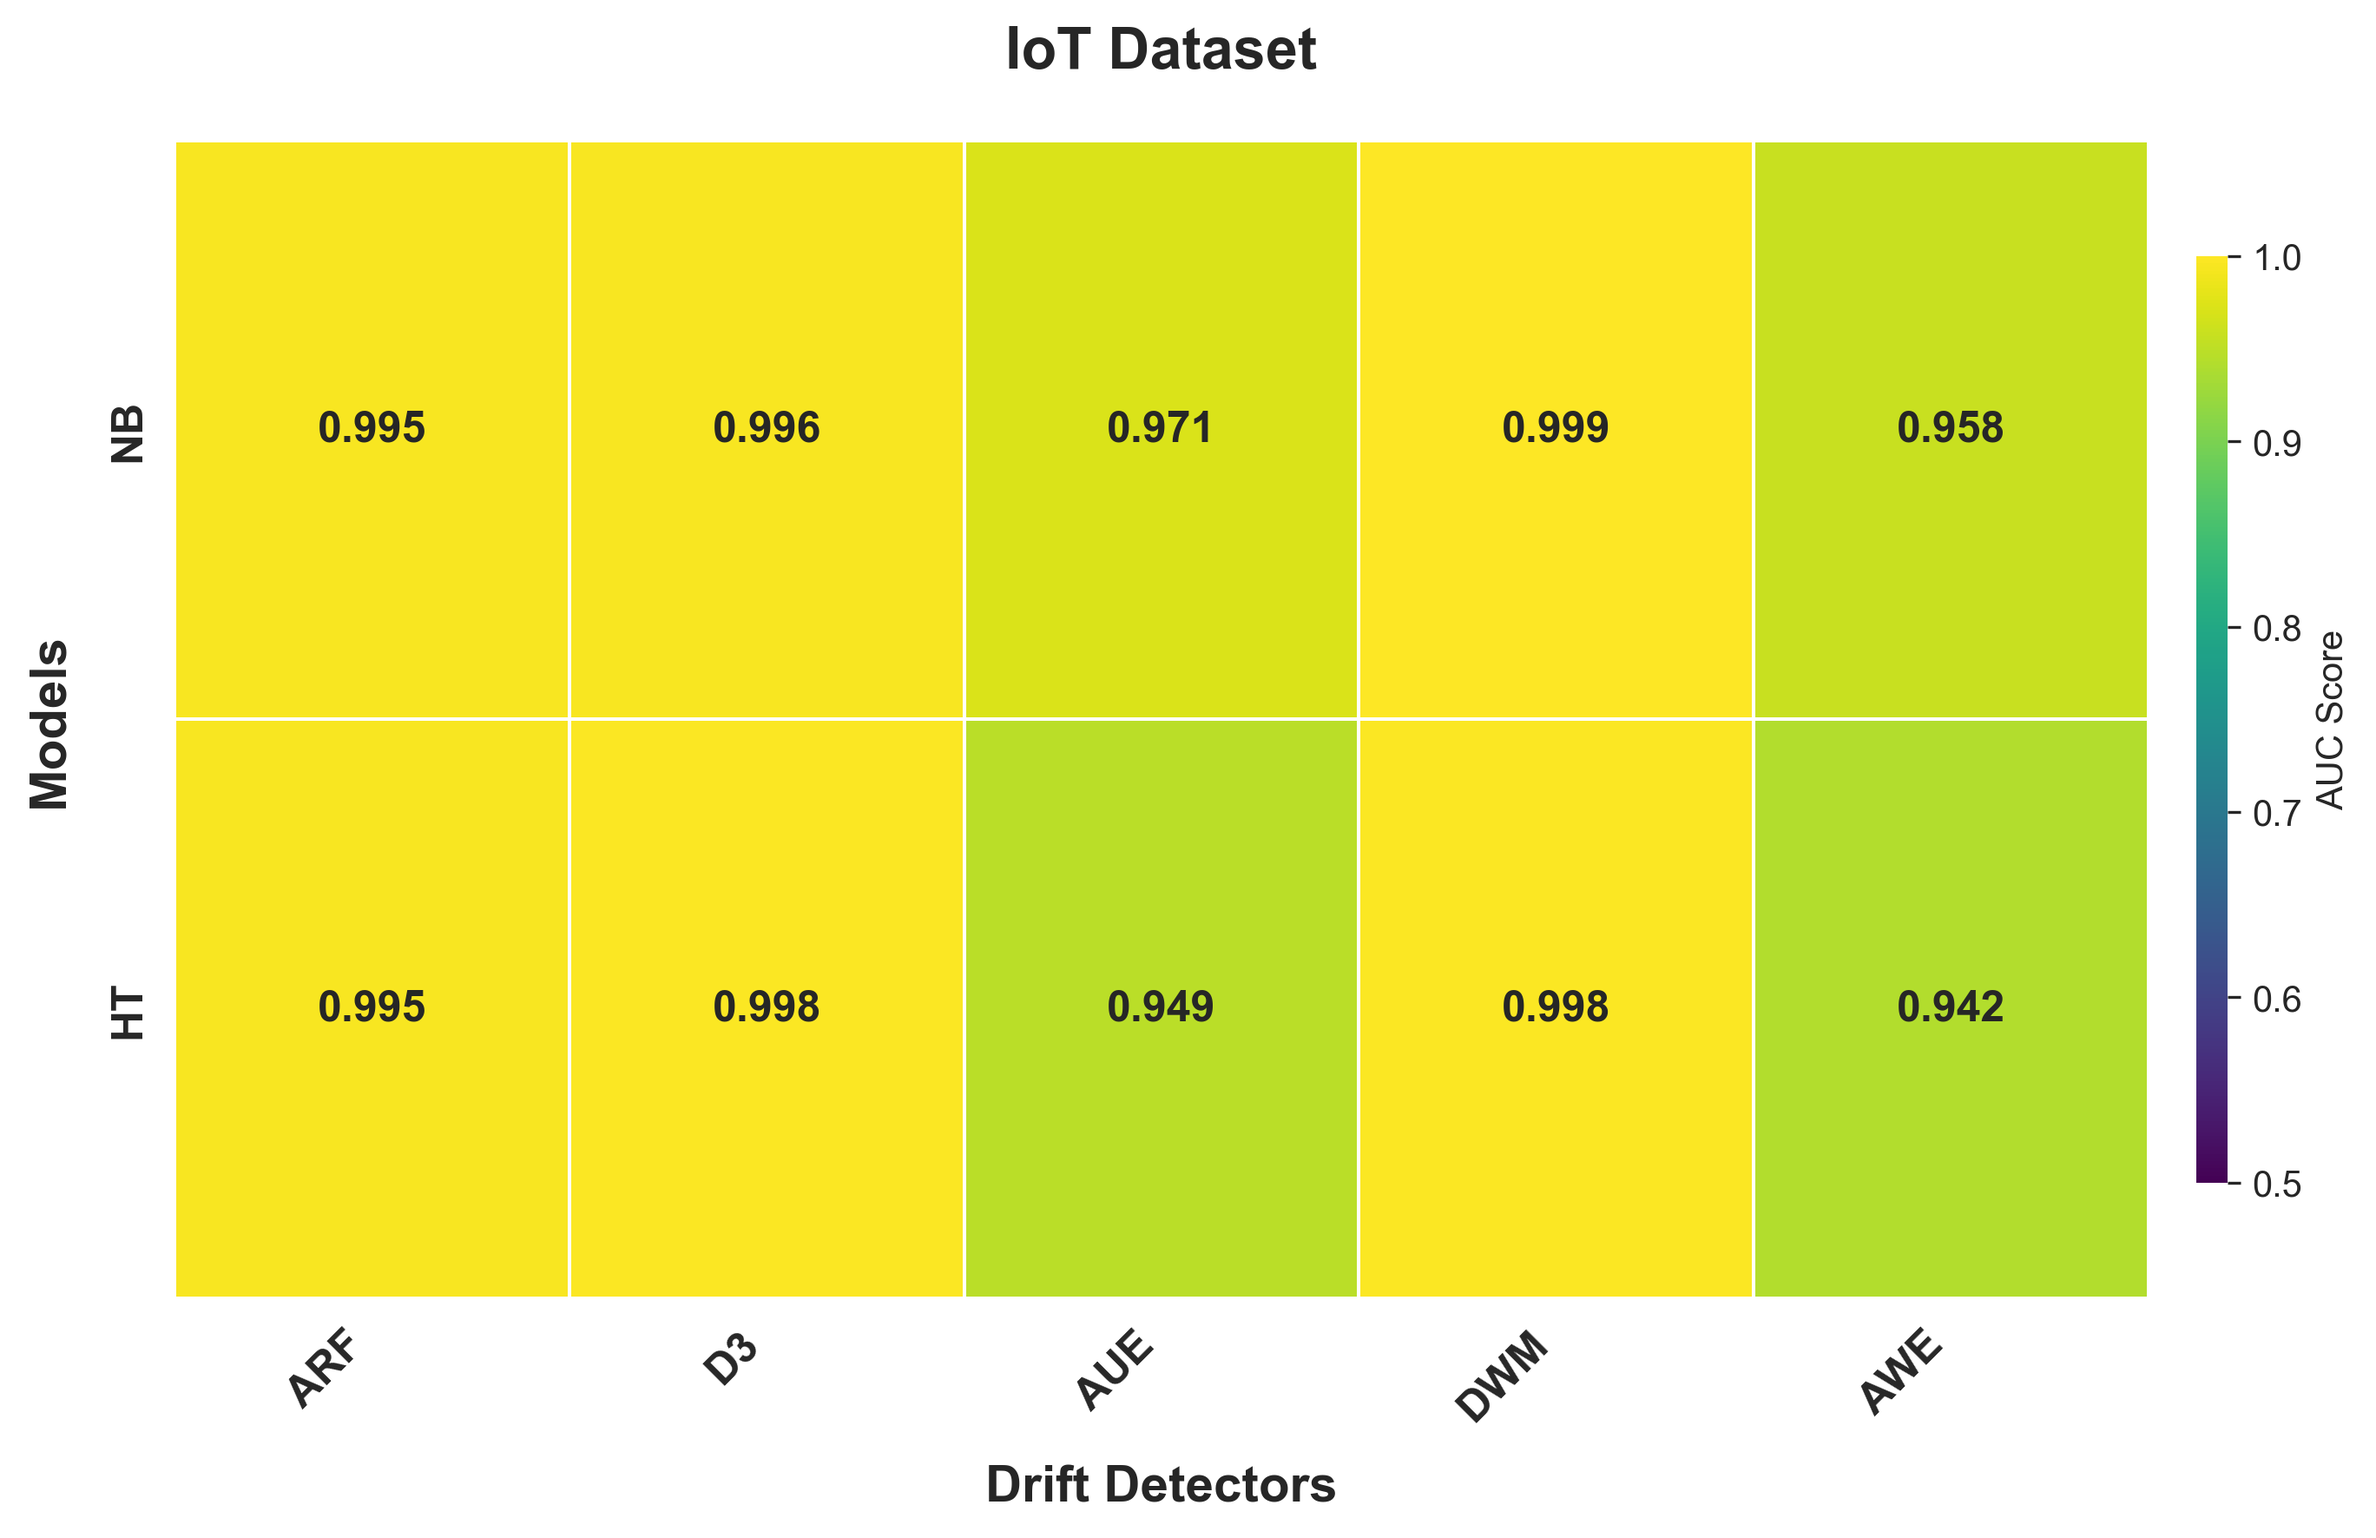
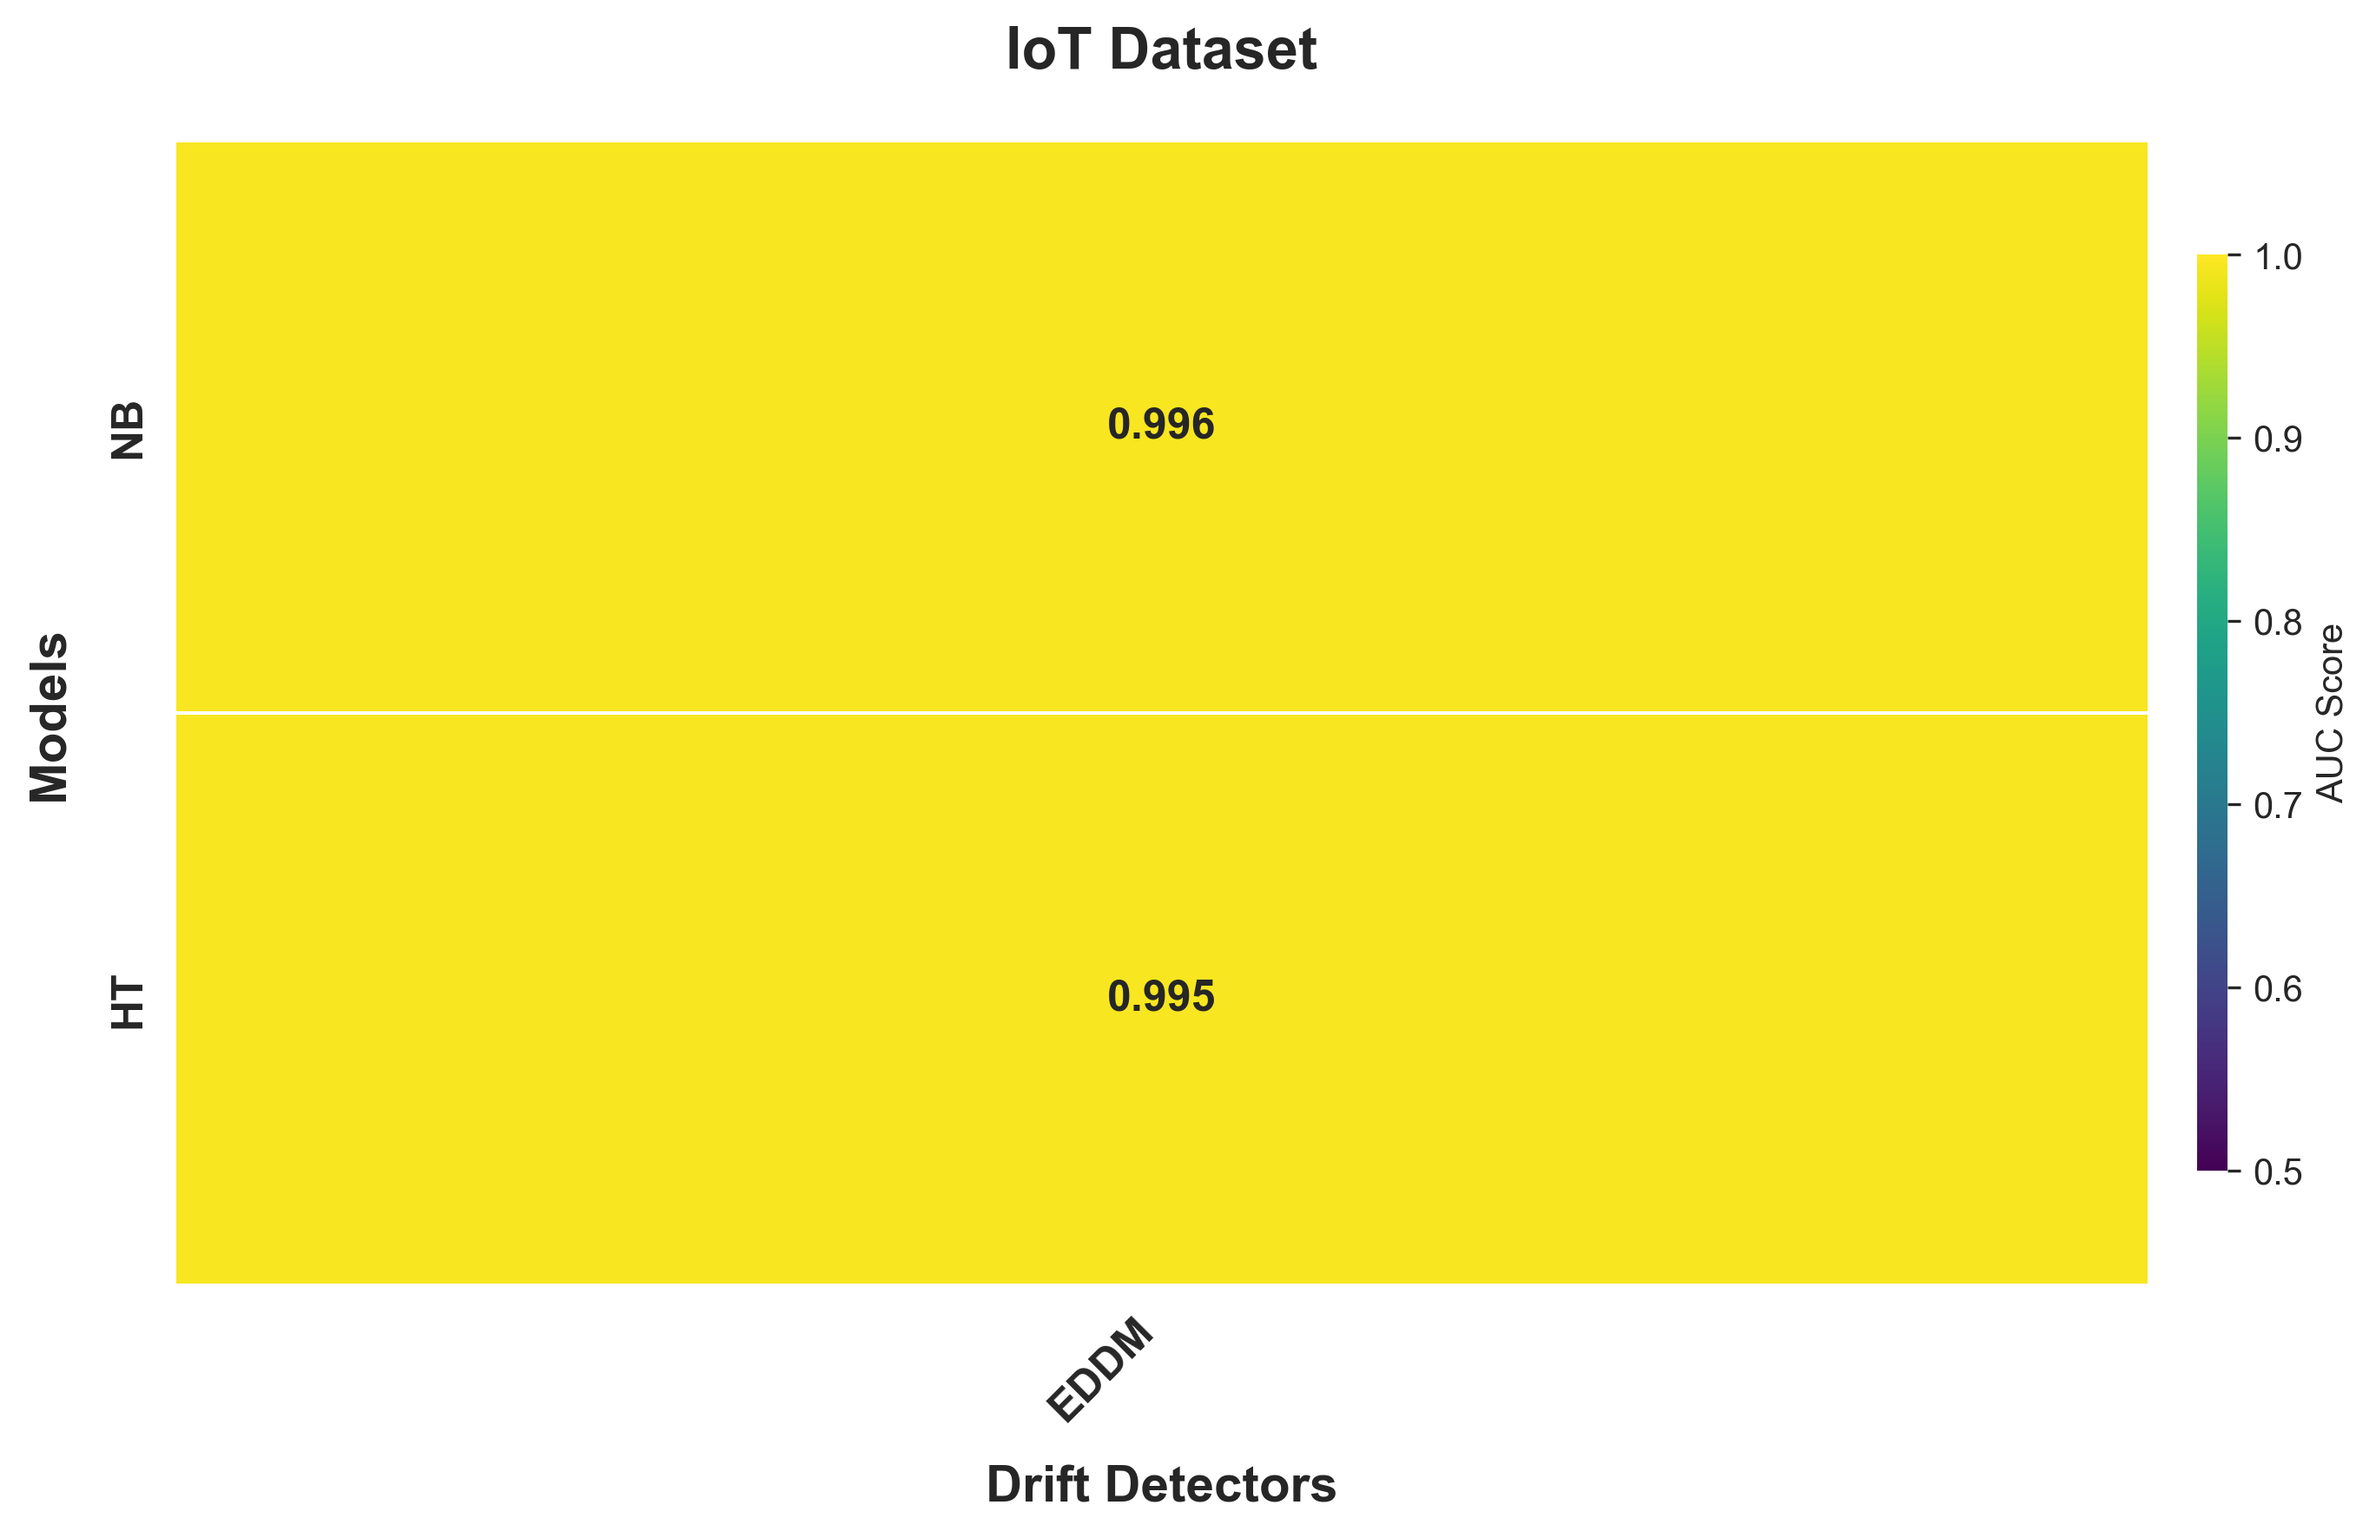
updated

diff --git a/main.py b/main.py
@@ -60,7 +60,7 @@ drift_detectors = {
     # 'RDDM': RDDMDriftDetector(), # 2017               # warning_threshold=1.773, drift_threshold=2.258
     # 'FHDDM': FHDDMDriftDetector(), # 2016 == River
     # 'EWMA': EWMADriftDetector(), # 2012               # lambda_ = 0.2, min_instances = 30
-    # 'EDDM': EDDMDriftDetector(), # 2006 == River
+    'EDDM': EDDMDriftDetector(), # 2006 == River
     # Window-Based Drift Detectors
     # 'KSWIN': KSWINDriftDetector(), #2020 == River
     # 'FPDD': FPDDDriftDetector(), # 2018                 # window_size = 30, alpha = 0.05
@@ -68,11 +68,11 @@ drift_detectors = {
     # 'MDDM': MDDMDriftDetector(), #2018                  # window_size=50, confidence_level=0.05
     # 'ADWIN': ADWINDriftDetector(), # 2007 == River
     # Ensemble-Based Drift Detectors
-    'ARF': ARFDriftDetector(), # 2017                 # lambda_value=6, warning_window_size=50, drift_window_size=30, warning_threshold=0.85, drift_threshold=0.75
-    'D3': D3DriftDetector(), #2015                    # window_size=100, threshold=0.7
-    'AUE': AUEDriftDetector(), # 2011                 # ensemble_size=10, chunk_size=100
-    'DWM': DWMDriftDetector(), # 2007                 # beta=0.5, theta=0.1, period=50
-    'AWE': AWEDriftDetector(), # 2003 
+    # 'ARF': ARFDriftDetector(), # 2017                 # lambda_value=6, warning_window_size=50, drift_window_size=30, warning_threshold=0.85, drift_threshold=0.75
+    # 'D3': D3DriftDetector(), #2015                    # window_size=100, threshold=0.7
+    # 'AUE': AUEDriftDetector(), # 2011                 # ensemble_size=10, chunk_size=100
+    # 'DWM': DWMDriftDetector(), # 2007                 # beta=0.5, theta=0.1, period=50
+    # 'AWE': AWEDriftDetector(), # 2003                 # chunk_size=50, ensemble_size=5
 }
 
 cd_detector_name = ''
@@ -87,6 +87,13 @@ for load_func, dataset_name in datasets:
     # Load dataset
     try:
         df_name, X, y = load_func()
+
+        # Print the first 5 rows of the features
+        print(f"Head of {dataset_name} dataset:")
+        print(pd.DataFrame(X).head())
+
+        # Print unique labels for the dataset
+        print(f"Labels for {dataset_name}: {set(y)}")
         
         # Initialize storage for this dataset
         data_auc = {}

diff --git a/concept_drift/adwin.py b/concept_drift/adwin.py
@@ -1,9 +1,8 @@
-# concept_drift/ddm.py
 from river.drift import ADWIN
 
 class ADWINDriftDetector:
     def __init__(self):
-        self.detector = ADWIN()
+        self.detector = ADWIN(width = 100)
         self.drift_detected = False
 
     def update(self, prediction, true_label):
